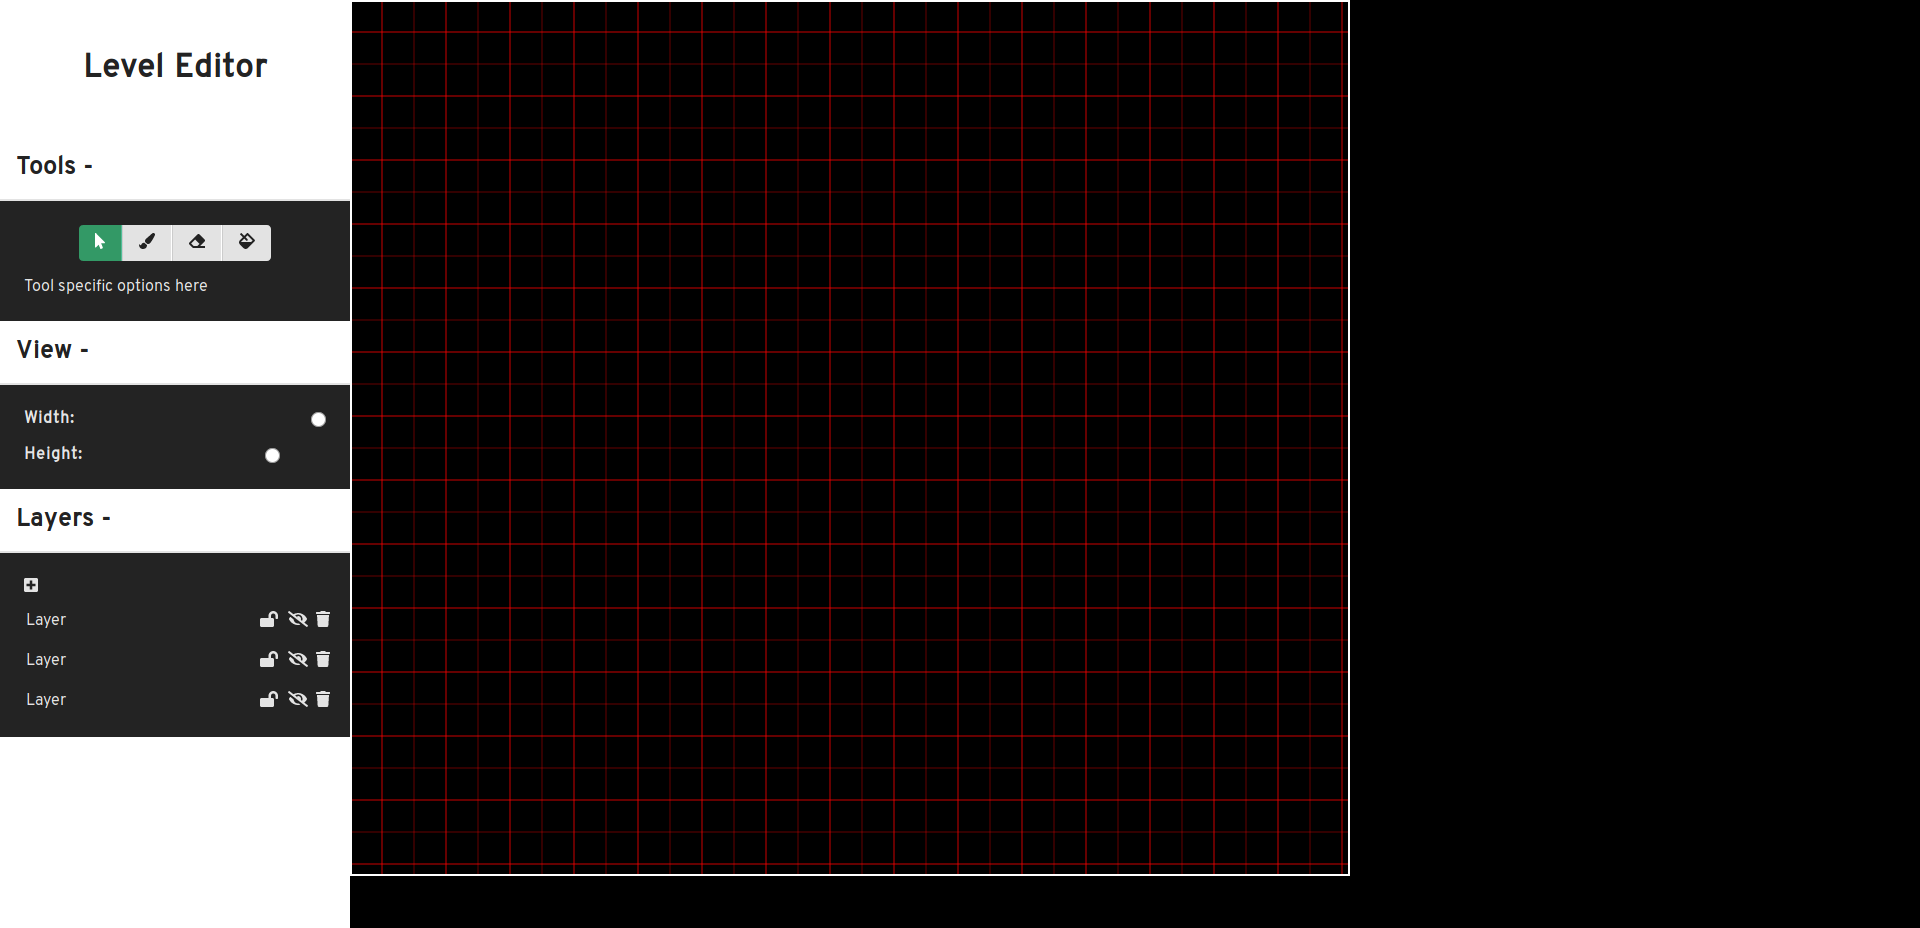
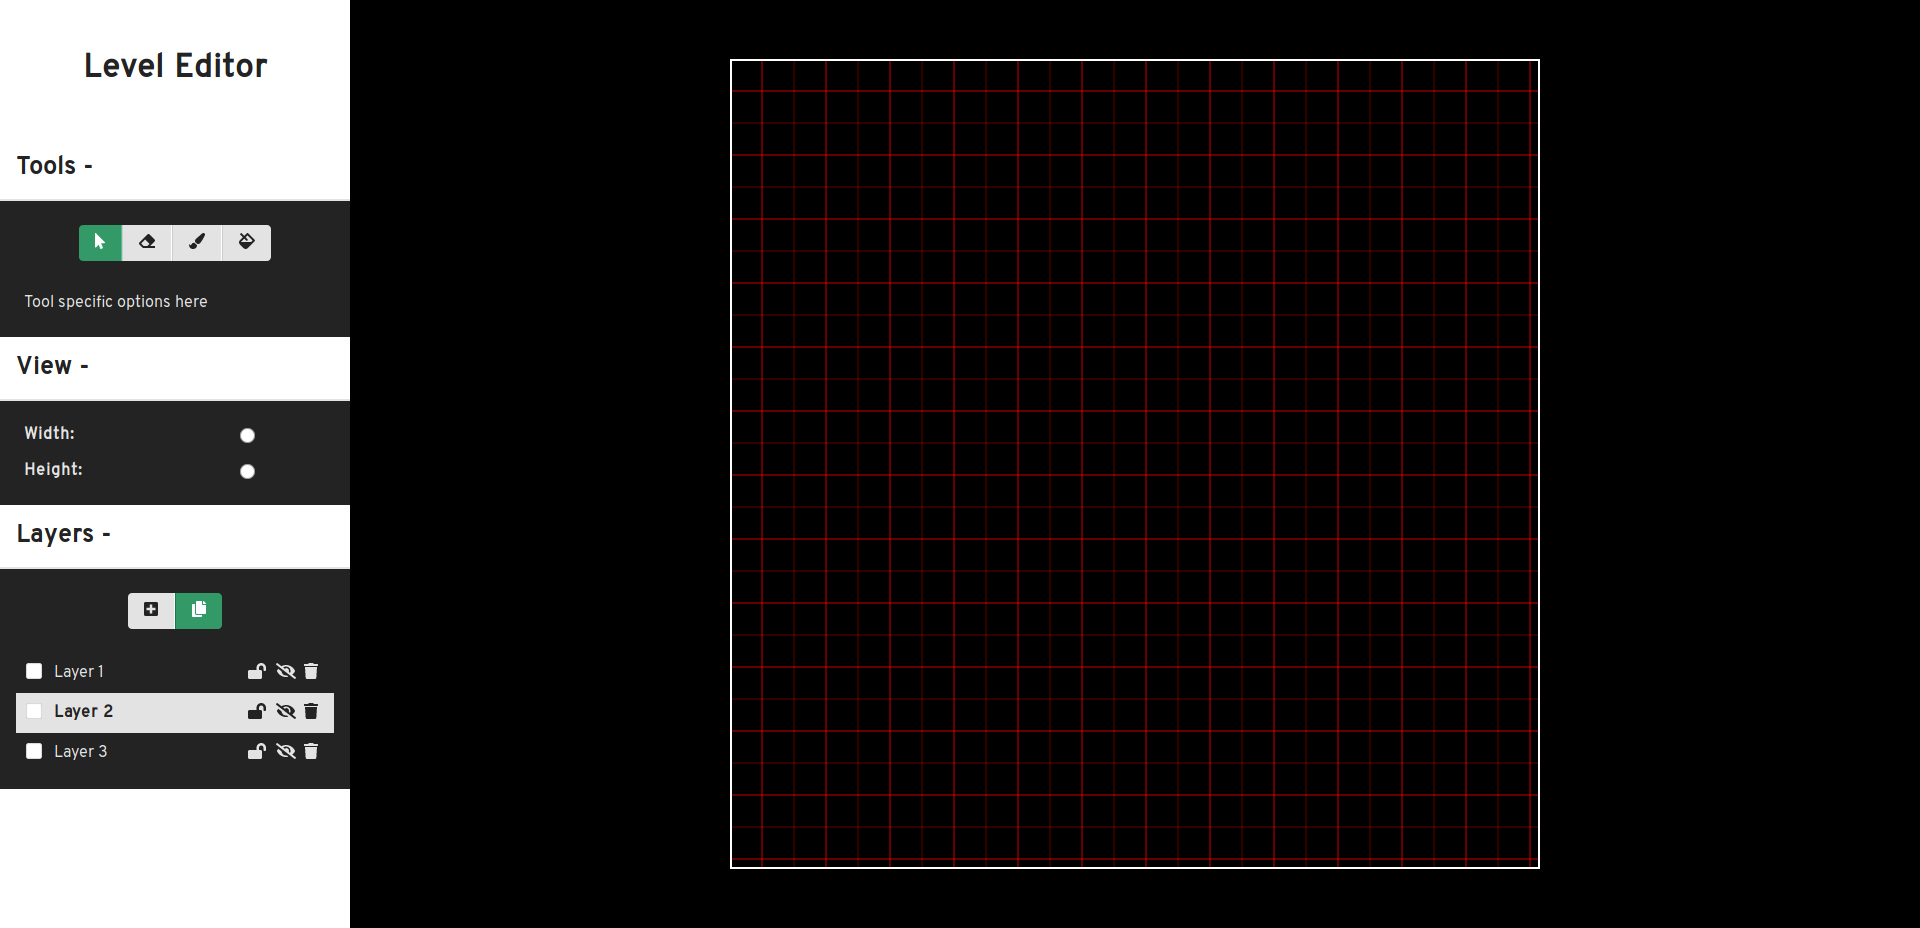
Mainly getting the button groups in

Changed region(s): [[0.2812, 0.0, 0.8125, 0.9375], [0.0, 0.2812, 0.25, 0.9375], [0.1875, 0.0, 0.25, 0.3125]]

diff --git a/src/editor/components/sidebar/sidebar.js b/src/editor/components/sidebar/sidebar.js
@@ -2,8 +2,10 @@ const React = require('react')
 const PanelList = require('./panel-list/panel-list.js')
 const Panel = require('./panel/panel.js')
 const Layer = require('./layer/layer.js')
-const ButtonGroup = require('./button-group/button-group.js')
 const ViewPanel = require('./view-panel/view-panel.js')
+
+const ToolButtons = require('./tool-buttons/tool-buttons.js')
+const LayerButtons = require('./layer-buttons/layer-buttons.js')
 
 const { FontAwesomeIcon } = require('@fortawesome/react-fontawesome')
 const { faPlusSquare } = require('@fortawesome/free-solid-svg-icons')
@@ -19,7 +21,7 @@ module.exports = ({ title = 'Sidebar' }) => {
       <PanelList open={true}>
         <Panel title='Tools'>
           <div className='section'>
-            <ButtonGroup />
+            <ToolButtons />
           </div>
           <div className='section'>
             <p>Tool specific options here</p>
@@ -27,13 +29,13 @@ module.exports = ({ title = 'Sidebar' }) => {
         </Panel>
         <ViewPanel />
         <Panel title='Layers'>
-          <div className='input'>
-            <FontAwesomeIcon icon={faPlusSquare} />
+          <div className='section'>
+            <LayerButtons />
           </div>
           <div>
-            <Layer />
-            <Layer />
-            <Layer />
+            <Layer title='Layer 1' />
+            <Layer title='Layer 2' selected />
+            <Layer title='Layer 3' />
           </div>
         </Panel>
       </PanelList>

diff --git a/src/editor/components/sidebar/button-group/button-group.js b/src/editor/components/sidebar/button-group/button-group.js
@@ -1,37 +1,22 @@
 const React = require('react')
 const { FontAwesomeIcon } = require('@fortawesome/react-fontawesome')
-const {
-  faFill,
-  faPaintBrush,
-  faEraser,
-  faMousePointer
-} = require('@fortawesome/free-solid-svg-icons')
 
 const style = require('./button-group.sass')
 
 class ButtonGroup extends React.Component {
-  constructor(props) {
-    super(props)
-    this.state = {}
-  }
-
   render() {
+    const buttons = this.props.icons.map((icon, i) => {
+      const className = i === this.props.selected ? 'selected' : null
+      return (
+        <li className={className}>
+          <FontAwesomeIcon icon={icon} />
+        </li>
+      )
+    })
+
     return (
       <div className='button-group'>
-        <ul>
-          <li className='selected'>
-            <FontAwesomeIcon icon={faMousePointer} />
-          </li>
-          <li>
-            <FontAwesomeIcon icon={faPaintBrush} />
-          </li>
-          <li>
-            <FontAwesomeIcon icon={faEraser} />
-          </li>
-          <li>
-            <FontAwesomeIcon icon={faFill} />
-          </li>
-        </ul>
+        <ul>{buttons}</ul>
       </div>
     )
   }

diff --git a/src/editor/components/sidebar/layer/layer.js b/src/editor/components/sidebar/layer/layer.js
@@ -10,15 +10,20 @@ const {
 
 const style = require('./layer.sass')
 
-module.exports = ({ title = 'Layer', visible = false }) => {
+module.exports = ({ title = 'Layer', visible = false, selected = false }) => {
   const visibilityIcon = visible ? (
     <FontAwesomeIcon icon={faEye} />
   ) : (
     <FontAwesomeIcon icon={faEyeSlash} />
   )
 
+  const className = selected ? `layer selected` : 'layer'
+
   return (
-    <div className='layer'>
+    <div className={className}>
+      <div>
+        <input type='checkbox' />
+      </div>
       <div>{title}</div>
       <div className='icon'>
         <FontAwesomeIcon icon={faLockOpen} />

diff --git a/src/editor/components/sidebar/layer-buttons/layer-buttons.js b/src/editor/components/sidebar/layer-buttons/layer-buttons.js
@@ -1,0 +1,12 @@
+const React = require('react')
+const ButtonGroup = require('../button-group/button-group.js')
+const { faPlusSquare, faCopy } = require('@fortawesome/free-solid-svg-icons')
+
+// Note :: I have just realised this shouldn't be a ButtonGroup because that
+//         acts as more of a dropdown list replacement for small lists of icons.
+//
+//         This should be just regular boring buttons instead.
+
+module.exports = () => {
+  return <ButtonGroup icons={[faPlusSquare, faCopy]} selected={1} />
+}

diff --git a/src/editor/components/sidebar/view-panel/view-panel.js b/src/editor/components/sidebar/view-panel/view-panel.js
@@ -26,7 +26,7 @@ class ViewPanel extends React.Component {
 
   render() {
     return (
-      <Panel title='View'>
+      <Panel title='View' open={this.props.open}>
         <div className='input range'>
           <label>Width:</label>
           <input
@@ -54,8 +54,8 @@ class ViewPanel extends React.Component {
 
 const mapStateToProps = state => {
   return {
-    width: state.width,
-    height: state.height
+    width: state.view.width,
+    height: state.view.height
   }
 }
 

diff --git a/src/editor/components/sidebar/tool-buttons/tool-buttons.js b/src/editor/components/sidebar/tool-buttons/tool-buttons.js
@@ -1,0 +1,15 @@
+const React = require('react')
+const ButtonGroup = require('../button-group/button-group.js')
+
+const {
+  faFill,
+  faPaintBrush,
+  faEraser,
+  faMousePointer
+} = require('@fortawesome/free-solid-svg-icons')
+
+const icons = [faMousePointer, faEraser, faPaintBrush, faFill]
+
+module.exports = () => {
+  return <ButtonGroup icons={icons} selected={0} />
+}

diff --git a/src/editor/reducers/app.js b/src/editor/reducers/app.js
@@ -1,6 +1,6 @@
 const { combineReducers } = require('redux')
 
-const view = (state = { width: 200, height: 200 }, action) => {
+const view = (state = { width: 810, height: 810 }, action) => {
   switch (action.type) {
     case 'VIEW_SET_WIDTH':
       return { ...state, width: parseInt(action.value) }

diff --git a/src/editor/components/sidebar/layer/layer.sass b/src/editor/components/sidebar/layer/layer.sass
@@ -1,8 +1,13 @@
 .layer
   display: grid
-  grid-template-columns: auto 20px 20px 20px
+  grid-template-columns: 20px auto 20px 20px 20px 4px
   grid-column-gap: 8px
   padding: 4px
 
   div 
     padding: 6px
+
+.selected
+  background-color: #e3e3e3
+  color: #232323
+  font-weight: bold

diff --git a/src/editor/app.sass b/src/editor/app.sass
@@ -4,6 +4,6 @@
   
 #app
   display: grid
-  background-color: #999999
+  background-color: #000000
   grid-template-columns: 350px auto
   grid-template-rows: 100vh

diff --git a/src/editor/components/bramble-view/bramble-view.sass b/src/editor/components/bramble-view/bramble-view.sass
@@ -1,2 +1,4 @@
 #bramble-view
   background-color: #000000
+  display: inline-block
+  margin: auto

diff --git a/src/editor/components/sidebar/button-group/button-group.sass b/src/editor/components/sidebar/button-group/button-group.sass
@@ -1,5 +1,6 @@
 .button-group
   text-align: center
+  margin-bottom: 16px
 
   ul
     li
